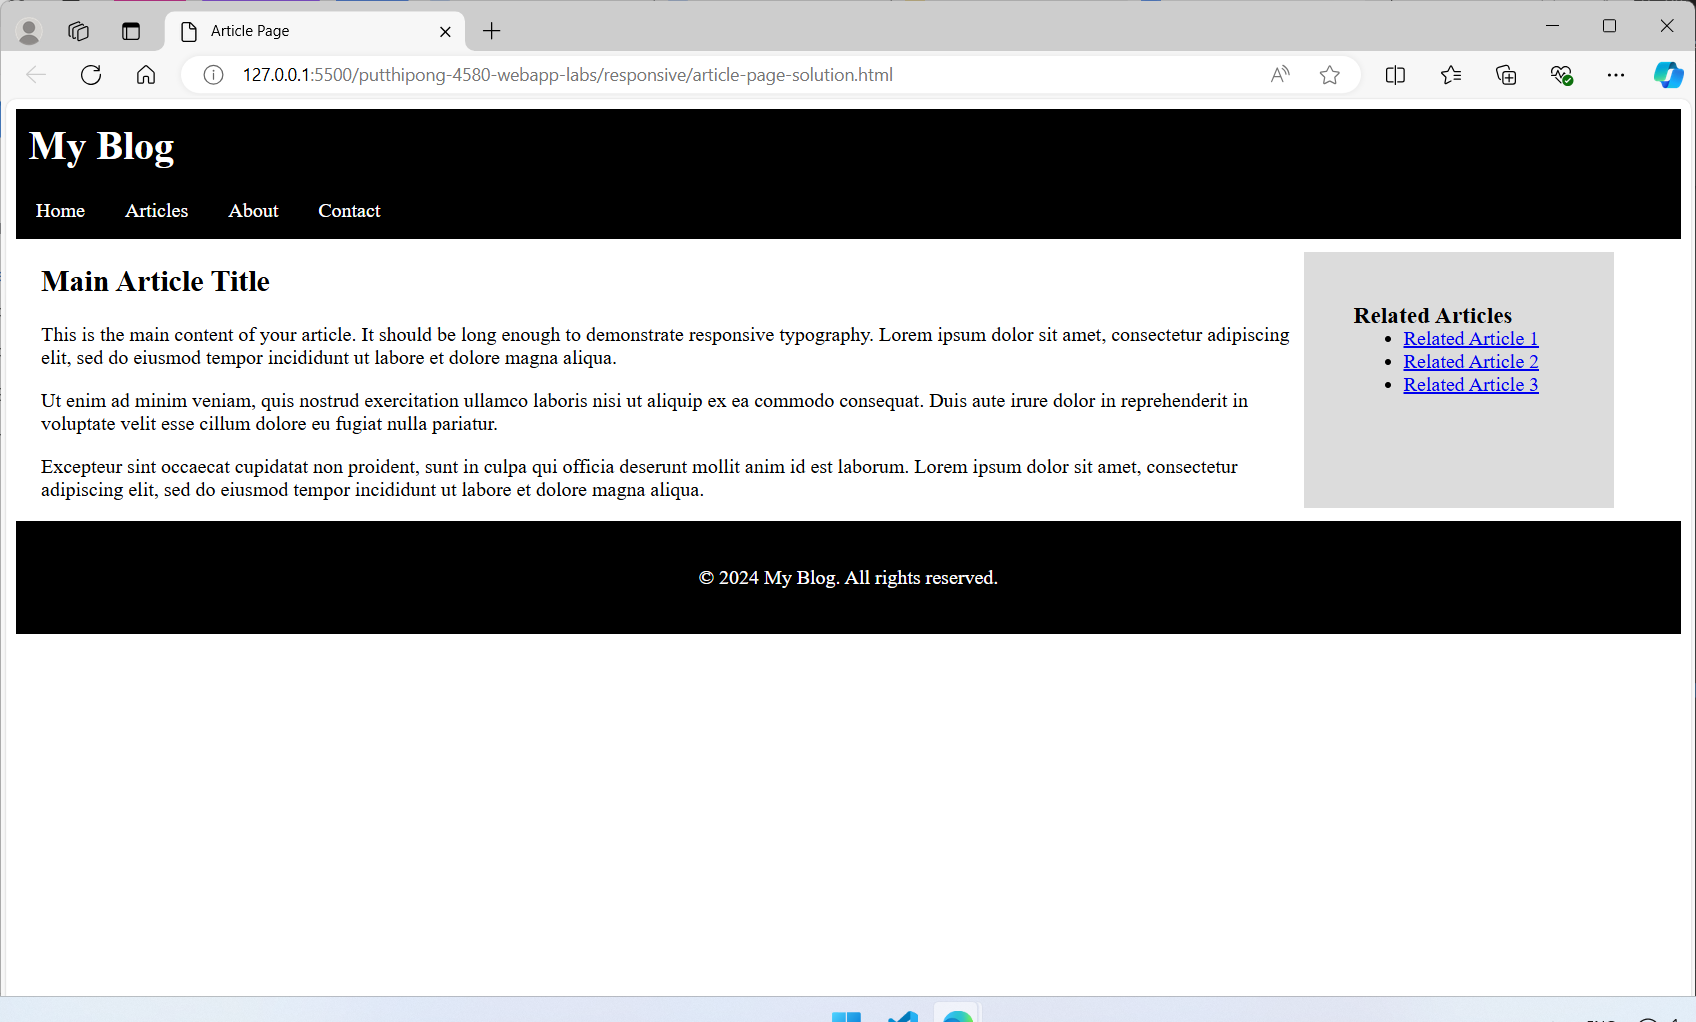
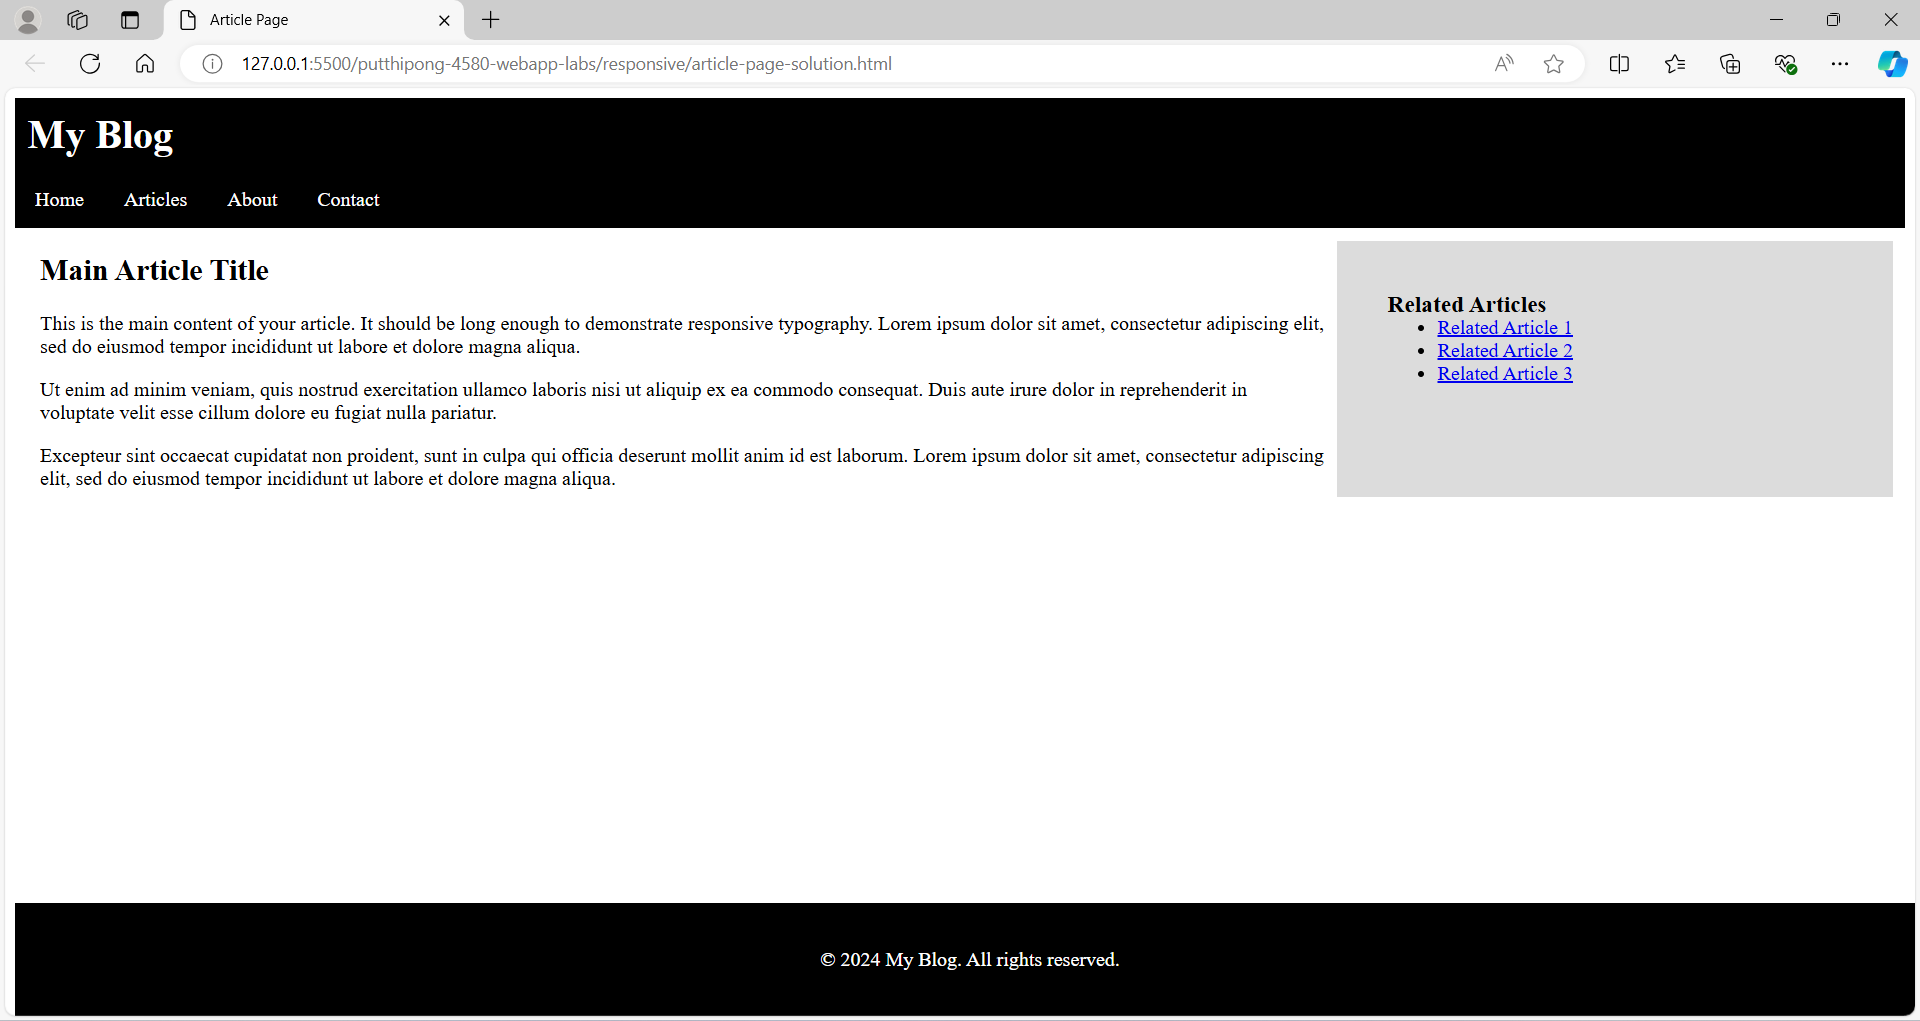
add exercise11

diff --git a/responsive/eco-friendly-landing-page-complete.html b/responsive/eco-friendly-landing-page-complete.html
@@ -1,0 +1,188 @@
+<!DOCTYPE html>
+<html lang="en">
+
+<head>
+    <meta charset="UTF-8" />
+    <meta name="viewport" content="width=device-width, initial-scale=1.0" />
+    <title>GreenLife - Eco-Friendly Household Products</title>
+    <style>
+        * {
+            box-sizing: border-box;
+            font-family: Arial, sans-serif;
+        }
+
+        header {
+            background-color: #8cb457;
+            color: white;
+            padding: 1rem;
+            text-align: center;
+        }
+
+        nav ul {
+            list-style-type: none;
+            padding: 0;
+        }
+
+        nav li {
+            display: inline;
+            margin-right: 2rem;
+        }
+
+        nav a {
+            color: white;
+            text-decoration: none;
+        }
+
+        body {
+            margin: 0;
+            padding: 0;
+            background-color: #f2f8f2;
+        }
+
+        #hero {
+            position: relative;
+            text-align: center;
+            color: #275428;
+        }
+
+        #hero-img {
+            width: 100%;
+            height: 300px;
+        }
+
+        #hero-content {
+            position: absolute;
+            top: 50%;
+            left: 50%;
+            transform: translate(-50%, -50%);
+        }
+
+        button {
+            padding: 15px 32px;
+            font-size: 16px;
+            border-radius: 12px;
+            transition-duration: 0.4s;
+            border: none;
+            text-align: center;
+            text-decoration: none;
+            display: inline-block;
+            color: #ffffff;
+            background-color: #275428;
+        }
+
+        button:hover {
+            box-shadow: 0 12px 16px 0 rgba(0, 0, 0, 0.24), 0 17px 50px 0 rgba(0, 0, 0, 0.19);
+        }
+
+        #featured-header {
+            color: #275428;
+            margin: 3rem 0 0 6%;
+        }
+
+        #featured-products {
+            display: grid;
+            grid-template-columns: repeat(auto-fit, minmax(300px, 1fr));
+            gap: 1.5rem;
+            padding: 1rem;
+            margin: 0 5% 0 5%;
+        }
+
+        .product {
+            padding: 0;
+            text-align: center;
+            box-shadow: 0 4px 8px 0 rgba(0, 0, 0, 0.2);
+            background-color: #ffffff;
+            border-radius: 10px;
+        }
+
+        .product:hover {
+            box-shadow: 0 8px 16px 0 rgba(0, 0, 0, 0.2);
+        }
+
+        .container {
+            padding: 2px 16px;
+            text-align: left;
+            color: #275428;
+        }
+
+        .product-img {
+            width: 100%;
+            height: 200px;
+            border-radius: 10px 10px 0px 0px;
+        }
+
+        @media (max-width: 768px) {
+            nav ul {
+                display: flex;
+                flex-direction: column;
+            }
+
+            nav li {
+                margin-bottom: 1rem;
+            }
+        }
+
+        @media (min-width: 768px) {
+            #featured-products {
+                grid-template-columns: repeat(2, 1fr);
+            }
+        }
+
+        @media (min-width: 1024px) {
+            #featured-products {
+                grid-template-columns: repeat(3, 1fr);
+            }
+        }
+    </style>
+</head>
+
+<body>
+    <header>
+        <nav>
+            <ul id="navbar">
+                <li><a href="#home">Home</a></li>
+                <li><a href="#articles">Articles</a></li>
+                <li><a href="#about">About</a></li>
+                <li><a href="#contact">Contact</a></li>
+            </ul>
+        </nav>
+    </header>
+
+    <main>
+        <section id="hero">
+            <img id="hero-img" src="https://via.placeholder.com/1500x600" alt="Product 1" />
+            <div id="hero-content">
+                <h1>Eco-Friendly Living Made Easy</h1>
+                <button type="button">Shop Now</button>
+            </div>
+        </section>
+
+
+        <h2 id="featured-header">Our Featured Products</h2>
+        <section id="featured-products">
+            <div class="product">
+                <img class="product-img" src="https://via.placeholder.com/300x200" alt="Product 1" />
+                <div class="container">
+                    <h3>Bamboo Toothbrush</h3>
+                    <p>Sustainable oral care for a greener future.</p>
+                </div>
+            </div>
+            <div class="product">
+                <img class="product-img" src="https://via.placeholder.com/300x200" alt="Product 2" />
+                <div class="container">
+                    <h3>Reuseable Water Bottle</h3>
+                    <p>Stay hydrated while reducing plastic waste.</p>
+                </div>
+            </div>
+            <div class="product">
+                <img class="product-img" src="https://via.placeholder.com/300x200" alt="Product 3" />
+                <div class="container">
+                    <h3>Organic Cotton Tote Bag</h3>
+                    <p>Shop in style with our durable, eco-friendly bags.</p>
+                </div>
+            </div>
+        </section>
+    </main>
+</body>
+
+</html>

diff --git a/responsive/article-page-solution.html b/responsive/article-page-solution.html
@@ -40,15 +40,15 @@
 
         main {
             display: flex;
-            flex-wrap: wrap;
         }
 
         article {
-            flex-basis: 1000px;
+            flex-basis: 70%;
             margin-left: 20px;
         }
 
         aside {
+            flex-basis: 30%;
             padding: 60px;
             margin: 10px;
             background-color: gainsboro;
@@ -71,12 +71,22 @@
                 flex-direction: column;
             }
 
+            main {
+                flex-wrap: wrap;
+            }
+
             article {
                 flex-basis: 100%;
+            }
+
+            aside {
+                flex-basis: 0;
             }
         }
 
         footer {
+            width: 100%;
+            position: fixed;
             padding: 20px;
             bottom: 0;
             text-align: center;
